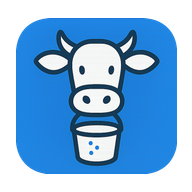
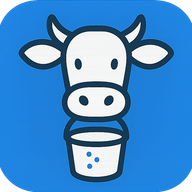
feat: finalize frontend branding and PWA experience

diff --git a/public/service-worker.js b/public/service-worker.js
@@ -1,1 +1,1 @@
-if(!self.define){let e,a={};const s=(s,n)=>(s=new URL(s+".js",n).href,a[s]||new Promise(a=>{if("document"in self){const e=document.createElement("script");e.src=s,e.onload=a,document.head.appendChild(e)}else e=s,importScripts(s),a()}).then(()=>{let e=a[s];if(!e)throw new Error(`Module ${s} didn’t register its module`);return e}));self.define=(n,c)=>{const i=e||("document"in self?document.currentScript.src:"")||location.href;if(a[i])return;let t={};const r=e=>s(e,i),o={module:{uri:i},exports:t,require:r};a[i]=Promise.all(n.map(e=>o[e]||r(e))).then(e=>(c(...e),t))}}define(["./workbox-f1770938"],function(e){"use strict";importScripts(),self.skipWaiting(),e.clientsClaim(),e.precacheAndRoute([{url:"/_next/static/chunks/138-eb2166786b526875.js",revision:"eb2166786b526875"},{url:"/_next/static/chunks/139.7a5a8e93a21948c1.js",revision:"7a5a8e93a21948c1"},{url:"/_next/static/chunks/239-8d9d1030c8d47c9b.js",revision:"8d9d1030c8d47c9b"},{url:"/_next/static/chunks/294-858a763fbb704c99.js",revision:"858a763fbb704c99"},{url:"/_next/static/chunks/3d47b92a-d16d83566cf53d49.js",revision:"d16d83566cf53d49"},{url:"/_next/static/chunks/4bd1b696-c023c6e3521b1417.js",revision:"c023c6e3521b1417"},{url:"/_next/static/chunks/59650de3-10d2dc9dcd236bb1.js",revision:"10d2dc9dcd236bb1"},{url:"/_next/static/chunks/619-9168df9c2a29b74b.js",revision:"9168df9c2a29b74b"},{url:"/_next/static/chunks/646.f342b7cffc01feb0.js",revision:"f342b7cffc01feb0"},{url:"/_next/static/chunks/696-7e8e795e422c1df4.js",revision:"7e8e795e422c1df4"},{url:"/_next/static/chunks/811-e16258beec0a4d41.js",revision:"e16258beec0a4d41"},{url:"/_next/static/chunks/8e1d74a4-118bc74135fd6f1b.js",revision:"118bc74135fd6f1b"},{url:"/_next/static/chunks/app/(app)/atividades/page-7c6df042cb11a681.js",revision:"7c6df042cb11a681"},{url:"/_next/static/chunks/app/(app)/atualiza_animal/page-51d59583a4ff9e4f.js",revision:"51d59583a4ff9e4f"},{url:"/_next/static/chunks/app/(app)/cadastro_animais/page-0a492b0f09e1e3ef.js",revision:"0a492b0f09e1e3ef"},{url:"/_next/static/chunks/app/(app)/cadastro_fazenda/page-dc798967cba1c7c0.js",revision:"dc798967cba1c7c0"},{url:"/_next/static/chunks/app/(app)/cadastro_produtor/page-02088f6bec0c1e68.js",revision:"02088f6bec0c1e68"},{url:"/_next/static/chunks/app/(app)/controle_final/page-d55492b0d030938a.js",revision:"d55492b0d030938a"},{url:"/_next/static/chunks/app/(app)/controle_individual/page-ba80688c565f8883.js",revision:"ba80688c565f8883"},{url:"/_next/static/chunks/app/(app)/controle_leiteiro/page-10b11eb786d0686a.js",revision:"10b11eb786d0686a"},{url:"/_next/static/chunks/app/(app)/fazenda/page-e3533c5f2e3f02b3.js",revision:"e3533c5f2e3f02b3"},{url:"/_next/static/chunks/app/(app)/layout-4bb90c50b5c09b1b.js",revision:"4bb90c50b5c09b1b"},{url:"/_next/static/chunks/app/(app)/login/page-7d3569def2d7dda6.js",revision:"7d3569def2d7dda6"},{url:"/_next/static/chunks/app/(app)/novo_animal/page-77b1603a51143d22.js",revision:"77b1603a51143d22"},{url:"/_next/static/chunks/app/(app)/novo_controle_leiteiro/page-21d7b35e268a3209.js",revision:"21d7b35e268a3209"},{url:"/_next/static/chunks/app/(app)/relatorio_final/page-e1c69af6d176a37d.js",revision:"e1c69af6d176a37d"},{url:"/_next/static/chunks/app/(app)/relatorios/page-b04d49ea61dc4b03.js",revision:"b04d49ea61dc4b03"},{url:"/_next/static/chunks/app/_not-found/page-b241d7f727a88912.js",revision:"b241d7f727a88912"},{url:"/_next/static/chunks/app/layout-e7879fbeeb60e167.js",revision:"e7879fbeeb60e167"},{url:"/_next/static/chunks/app/page-4ac6c3fe62f47d58.js",revision:"4ac6c3fe62f47d58"},{url:"/_next/static/chunks/app/sitemap.xml/route-21707c9dc87a0765.js",revision:"21707c9dc87a0765"},{url:"/_next/static/chunks/framework-a6e0b7e30f98059a.js",revision:"a6e0b7e30f98059a"},{url:"/_next/static/chunks/main-app-70a831d53cf2ed7f.js",revision:"70a831d53cf2ed7f"},{url:"/_next/static/chunks/main-bb453e26edb745cd.js",revision:"bb453e26edb745cd"},{url:"/_next/static/chunks/pages/_app-82835f42865034fa.js",revision:"82835f42865034fa"},{url:"/_next/static/chunks/pages/_error-013f4188946cdd04.js",revision:"013f4188946cdd04"},{url:"/_next/static/chunks/polyfills-42372ed130431b0a.js",revision:"846118c33b2c0e922d7b3a7676f81f6f"},{url:"/_next/static/chunks/webpack-4772d34723bd25e0.js",revision:"4772d34723bd25e0"},{url:"/_next/static/css/9a8a398b10b42679.css",revision:"9a8a398b10b42679"},{url:"/_next/static/l-hEb5JMLCRj_DRUjCOV-/_buildManifest.js",revision:"216f202603db5a2267315b5e948f81df"},{url:"/_next/static/l-hEb5JMLCRj_DRUjCOV-/_ssgManifest.js",revision:"b6652df95db52feb4daf4eca35380933"},{url:"/fotos/tela_animal.jpg",revision:"c59f5e6694c7c75367bacd87c1dcd41a"},{url:"/fotos/tela_atividades.jpg",revision:"6d1c65938e312f244f5460d8875902bb"},{url:"/fotos/tela_controle.jpg",revision:"a4887dc2ce86b52e8e6e63e1df403784"},{url:"/fotos/tela_fazenda.jpg",revision:"b52c1354e712b286f78bc0a2fc86f061"},{url:"/fotos/tela_relatorio.jpg",revision:"bd059b1d8ff5ed3097b07efc48d82fd1"},{url:"/icon-192x192.png",revision:"212c5a6c308d63f62e319d39c03a0351"},{url:"/icon-512x512.png",revision:"c83ef9a0f7f1e072fb1f9ff6b4965e2a"},{url:"/icon_CL.png",revision:"1ad220b8e6b581b98b5806a0d8c1f058"},{url:"/logo_H_CL-removebg.png",revision:"529bcb8b7fe4edd0c23a121f18296f9c"},{url:"/logo_H_CL.png",revision:"53fd3f07d022e93ec3a999fdcc237d9d"},{url:"/logo_V_CL-removebg.png",revision:"cf425462a16b403f6ff1bef7c99cdb6c"},{url:"/logo_V_CL.png",revision:"39e2848030e246fc504357aafe01a5cd"},{url:"/logo_horiz_tepeyac.png",revision:"abd1b916b166e4f0681d73ce79cb0f8d"},{url:"/logo_vert_tepeyac.png",revision:"d7048eb39073ab2f0f5cb95f024d9794"},{url:"/manifest.json",revision:"205671fe0cc45d451558c74c37a6c45e"},{url:"/perfil_out23.png",revision:"ee138fe6c869f9793b11ceec022e3bfd"},{url:"/tepeyac-icon.png",revision:"eae8bc38be33795049064afda5a1c85c"}],{ignoreURLParametersMatching:[/^utm_/,/^fbclid$/]}),e.cleanupOutdatedCaches(),e.registerRoute("/",new e.NetworkFirst({cacheName:"start-url",plugins:[{cacheWillUpdate:async({response:e})=>e&&"opaqueredirect"===e.type?new Response(e.body,{status:200,statusText:"OK",headers:e.headers}):e}]}),"GET"),e.registerRoute(/^https:\/\/fonts\.(?:gstatic)\.com\/.*/i,new e.CacheFirst({cacheName:"google-fonts-webfonts",plugins:[new e.ExpirationPlugin({maxEntries:4,maxAgeSeconds:31536e3})]}),"GET"),e.registerRoute(/^https:\/\/fonts\.(?:googleapis)\.com\/.*/i,new e.StaleWhileRevalidate({cacheName:"google-fonts-stylesheets",plugins:[new e.ExpirationPlugin({maxEntries:4,maxAgeSeconds:604800})]}),"GET"),e.registerRoute(/\.(?:eot|otf|ttc|ttf|woff|woff2|font.css)$/i,new e.StaleWhileRevalidate({cacheName:"static-font-assets",plugins:[new e.ExpirationPlugin({maxEntries:4,maxAgeSeconds:604800})]}),"GET"),e.registerRoute(/\.(?:jpg|jpeg|gif|png|svg|ico|webp)$/i,new e.StaleWhileRevalidate({cacheName:"static-image-assets",plugins:[new e.ExpirationPlugin({maxEntries:64,maxAgeSeconds:2592e3})]}),"GET"),e.registerRoute(/\/_next\/static.+\.js$/i,new e.CacheFirst({cacheName:"next-static-js-assets",plugins:[new e.ExpirationPlugin({maxEntries:64,maxAgeSeconds:86400})]}),"GET"),e.registerRoute(/\/_next\/image\?url=.+$/i,new e.StaleWhileRevalidate({cacheName:"next-image",plugins:[new e.ExpirationPlugin({maxEntries:64,maxAgeSeconds:86400})]}),"GET"),e.registerRoute(/\.(?:mp3|wav|ogg)$/i,new e.CacheFirst({cacheName:"static-audio-assets",plugins:[new e.RangeRequestsPlugin,new e.ExpirationPlugin({maxEntries:32,maxAgeSeconds:86400})]}),"GET"),e.registerRoute(/\.(?:mp4|webm)$/i,new e.CacheFirst({cacheName:"static-video-assets",plugins:[new e.RangeRequestsPlugin,new e.ExpirationPlugin({maxEntries:32,maxAgeSeconds:86400})]}),"GET"),e.registerRoute(/\.(?:js)$/i,new e.StaleWhileRevalidate({cacheName:"static-js-assets",plugins:[new e.ExpirationPlugin({maxEntries:48,maxAgeSeconds:86400})]}),"GET"),e.registerRoute(/\.(?:css|less)$/i,new e.StaleWhileRevalidate({cacheName:"static-style-assets",plugins:[new e.ExpirationPlugin({maxEntries:32,maxAgeSeconds:86400})]}),"GET"),e.registerRoute(/\/_next\/data\/.+\/.+\.json$/i,new e.StaleWhileRevalidate({cacheName:"next-data",plugins:[new e.ExpirationPlugin({maxEntries:32,maxAgeSeconds:86400})]}),"GET"),e.registerRoute(/\.(?:json|xml|csv)$/i,new e.NetworkFirst({cacheName:"static-data-assets",plugins:[new e.ExpirationPlugin({maxEntries:32,maxAgeSeconds:86400})]}),"GET"),e.registerRoute(({sameOrigin:e,url:{pathname:a}})=>!(!e||a.startsWith("/api/auth/callback")||!a.startsWith("/api/")),new e.NetworkFirst({cacheName:"apis",networkTimeoutSeconds:10,plugins:[new e.ExpirationPlugin({maxEntries:16,maxAgeSeconds:86400})]}),"GET"),e.registerRoute(({request:e,url:{pathname:a},sameOrigin:s})=>"1"===e.headers.get("RSC")&&"1"===e.headers.get("Next-Router-Prefetch")&&s&&!a.startsWith("/api/"),new e.NetworkFirst({cacheName:"pages-rsc-prefetch",plugins:[new e.ExpirationPlugin({maxEntries:32,maxAgeSeconds:86400})]}),"GET"),e.registerRoute(({request:e,url:{pathname:a},sameOrigin:s})=>"1"===e.headers.get("RSC")&&s&&!a.startsWith("/api/"),new e.NetworkFirst({cacheName:"pages-rsc",plugins:[new e.ExpirationPlugin({maxEntries:32,maxAgeSeconds:86400})]}),"GET"),e.registerRoute(({url:{pathname:e},sameOrigin:a})=>a&&!e.startsWith("/api/"),new e.NetworkFirst({cacheName:"pages",plugins:[new e.ExpirationPlugin({maxEntries:32,maxAgeSeconds:86400})]}),"GET"),e.registerRoute(({sameOrigin:e})=>!e,new e.NetworkFirst({cacheName:"cross-origin",networkTimeoutSeconds:10,plugins:[new e.ExpirationPlugin({maxEntries:32,maxAgeSeconds:3600})]}),"GET")});
+if(!self.define){let e,a={};const s=(s,n)=>(s=new URL(s+".js",n).href,a[s]||new Promise(a=>{if("document"in self){const e=document.createElement("script");e.src=s,e.onload=a,document.head.appendChild(e)}else e=s,importScripts(s),a()}).then(()=>{let e=a[s];if(!e)throw new Error(`Module ${s} didn’t register its module`);return e}));self.define=(n,c)=>{const i=e||("document"in self?document.currentScript.src:"")||location.href;if(a[i])return;let t={};const r=e=>s(e,i),o={module:{uri:i},exports:t,require:r};a[i]=Promise.all(n.map(e=>o[e]||r(e))).then(e=>(c(...e),t))}}define(["./workbox-f1770938"],function(e){"use strict";importScripts(),self.skipWaiting(),e.clientsClaim(),e.precacheAndRoute([{url:"/_next/static/bFbqk3REoj5UCVW-kuKBh/_buildManifest.js",revision:"216f202603db5a2267315b5e948f81df"},{url:"/_next/static/bFbqk3REoj5UCVW-kuKBh/_ssgManifest.js",revision:"b6652df95db52feb4daf4eca35380933"},{url:"/_next/static/chunks/138-eb2166786b526875.js",revision:"eb2166786b526875"},{url:"/_next/static/chunks/139.7a5a8e93a21948c1.js",revision:"7a5a8e93a21948c1"},{url:"/_next/static/chunks/239-8d9d1030c8d47c9b.js",revision:"8d9d1030c8d47c9b"},{url:"/_next/static/chunks/294-858a763fbb704c99.js",revision:"858a763fbb704c99"},{url:"/_next/static/chunks/3d47b92a-d16d83566cf53d49.js",revision:"d16d83566cf53d49"},{url:"/_next/static/chunks/4bd1b696-c023c6e3521b1417.js",revision:"c023c6e3521b1417"},{url:"/_next/static/chunks/59650de3-10d2dc9dcd236bb1.js",revision:"10d2dc9dcd236bb1"},{url:"/_next/static/chunks/619-9168df9c2a29b74b.js",revision:"9168df9c2a29b74b"},{url:"/_next/static/chunks/646.f342b7cffc01feb0.js",revision:"f342b7cffc01feb0"},{url:"/_next/static/chunks/696-7e8e795e422c1df4.js",revision:"7e8e795e422c1df4"},{url:"/_next/static/chunks/811-e16258beec0a4d41.js",revision:"e16258beec0a4d41"},{url:"/_next/static/chunks/8e1d74a4-118bc74135fd6f1b.js",revision:"118bc74135fd6f1b"},{url:"/_next/static/chunks/app/(app)/atividades/page-7c6df042cb11a681.js",revision:"7c6df042cb11a681"},{url:"/_next/static/chunks/app/(app)/atualiza_animal/page-51d59583a4ff9e4f.js",revision:"51d59583a4ff9e4f"},{url:"/_next/static/chunks/app/(app)/cadastro_animais/page-0a492b0f09e1e3ef.js",revision:"0a492b0f09e1e3ef"},{url:"/_next/static/chunks/app/(app)/cadastro_fazenda/page-dc798967cba1c7c0.js",revision:"dc798967cba1c7c0"},{url:"/_next/static/chunks/app/(app)/cadastro_produtor/page-02088f6bec0c1e68.js",revision:"02088f6bec0c1e68"},{url:"/_next/static/chunks/app/(app)/controle_final/page-d55492b0d030938a.js",revision:"d55492b0d030938a"},{url:"/_next/static/chunks/app/(app)/controle_individual/page-ba80688c565f8883.js",revision:"ba80688c565f8883"},{url:"/_next/static/chunks/app/(app)/controle_leiteiro/page-10b11eb786d0686a.js",revision:"10b11eb786d0686a"},{url:"/_next/static/chunks/app/(app)/fazenda/page-e3533c5f2e3f02b3.js",revision:"e3533c5f2e3f02b3"},{url:"/_next/static/chunks/app/(app)/layout-89dbba67199334cb.js",revision:"89dbba67199334cb"},{url:"/_next/static/chunks/app/(app)/login/page-7d3569def2d7dda6.js",revision:"7d3569def2d7dda6"},{url:"/_next/static/chunks/app/(app)/novo_animal/page-77b1603a51143d22.js",revision:"77b1603a51143d22"},{url:"/_next/static/chunks/app/(app)/novo_controle_leiteiro/page-21d7b35e268a3209.js",revision:"21d7b35e268a3209"},{url:"/_next/static/chunks/app/(app)/relatorio_final/page-e1c69af6d176a37d.js",revision:"e1c69af6d176a37d"},{url:"/_next/static/chunks/app/(app)/relatorios/page-b04d49ea61dc4b03.js",revision:"b04d49ea61dc4b03"},{url:"/_next/static/chunks/app/_not-found/page-b241d7f727a88912.js",revision:"b241d7f727a88912"},{url:"/_next/static/chunks/app/layout-e7879fbeeb60e167.js",revision:"e7879fbeeb60e167"},{url:"/_next/static/chunks/app/page-5c668c56fc75e221.js",revision:"5c668c56fc75e221"},{url:"/_next/static/chunks/app/sitemap.xml/route-21707c9dc87a0765.js",revision:"21707c9dc87a0765"},{url:"/_next/static/chunks/framework-a6e0b7e30f98059a.js",revision:"a6e0b7e30f98059a"},{url:"/_next/static/chunks/main-app-70a831d53cf2ed7f.js",revision:"70a831d53cf2ed7f"},{url:"/_next/static/chunks/main-bb453e26edb745cd.js",revision:"bb453e26edb745cd"},{url:"/_next/static/chunks/pages/_app-82835f42865034fa.js",revision:"82835f42865034fa"},{url:"/_next/static/chunks/pages/_error-013f4188946cdd04.js",revision:"013f4188946cdd04"},{url:"/_next/static/chunks/polyfills-42372ed130431b0a.js",revision:"846118c33b2c0e922d7b3a7676f81f6f"},{url:"/_next/static/chunks/webpack-4772d34723bd25e0.js",revision:"4772d34723bd25e0"},{url:"/_next/static/css/a042bb230c5b426d.css",revision:"a042bb230c5b426d"},{url:"/fotos/tela_animal.jpg",revision:"c59f5e6694c7c75367bacd87c1dcd41a"},{url:"/fotos/tela_atividades.jpg",revision:"6d1c65938e312f244f5460d8875902bb"},{url:"/fotos/tela_controle.jpg",revision:"a4887dc2ce86b52e8e6e63e1df403784"},{url:"/fotos/tela_fazenda.jpg",revision:"b52c1354e712b286f78bc0a2fc86f061"},{url:"/fotos/tela_relatorio.jpg",revision:"bd059b1d8ff5ed3097b07efc48d82fd1"},{url:"/icon-192x192.png",revision:"f0367da3c238be14d637cfd338ff6a49"},{url:"/icon-512x512.png",revision:"a77506d38c182cb43fa0bd0c5b5cb165"},{url:"/icon_CL.png",revision:"1ad220b8e6b581b98b5806a0d8c1f058"},{url:"/logo_H_CL-removebg.png",revision:"529bcb8b7fe4edd0c23a121f18296f9c"},{url:"/logo_H_CL.png",revision:"53fd3f07d022e93ec3a999fdcc237d9d"},{url:"/logo_V_CL-removebg.png",revision:"cf425462a16b403f6ff1bef7c99cdb6c"},{url:"/logo_V_CL.png",revision:"39e2848030e246fc504357aafe01a5cd"},{url:"/logo_horiz_tepeyac.png",revision:"abd1b916b166e4f0681d73ce79cb0f8d"},{url:"/logo_vert_tepeyac.png",revision:"d7048eb39073ab2f0f5cb95f024d9794"},{url:"/manifest.json",revision:"baf452d4a74c1e8f2f0ba513e3e9b314"},{url:"/perfil_out23.png",revision:"ee138fe6c869f9793b11ceec022e3bfd"},{url:"/tepeyac-icon.png",revision:"eae8bc38be33795049064afda5a1c85c"}],{ignoreURLParametersMatching:[/^utm_/,/^fbclid$/]}),e.cleanupOutdatedCaches(),e.registerRoute("/",new e.NetworkFirst({cacheName:"start-url",plugins:[{cacheWillUpdate:async({response:e})=>e&&"opaqueredirect"===e.type?new Response(e.body,{status:200,statusText:"OK",headers:e.headers}):e}]}),"GET"),e.registerRoute(/^https:\/\/fonts\.(?:gstatic)\.com\/.*/i,new e.CacheFirst({cacheName:"google-fonts-webfonts",plugins:[new e.ExpirationPlugin({maxEntries:4,maxAgeSeconds:31536e3})]}),"GET"),e.registerRoute(/^https:\/\/fonts\.(?:googleapis)\.com\/.*/i,new e.StaleWhileRevalidate({cacheName:"google-fonts-stylesheets",plugins:[new e.ExpirationPlugin({maxEntries:4,maxAgeSeconds:604800})]}),"GET"),e.registerRoute(/\.(?:eot|otf|ttc|ttf|woff|woff2|font.css)$/i,new e.StaleWhileRevalidate({cacheName:"static-font-assets",plugins:[new e.ExpirationPlugin({maxEntries:4,maxAgeSeconds:604800})]}),"GET"),e.registerRoute(/\.(?:jpg|jpeg|gif|png|svg|ico|webp)$/i,new e.StaleWhileRevalidate({cacheName:"static-image-assets",plugins:[new e.ExpirationPlugin({maxEntries:64,maxAgeSeconds:2592e3})]}),"GET"),e.registerRoute(/\/_next\/static.+\.js$/i,new e.CacheFirst({cacheName:"next-static-js-assets",plugins:[new e.ExpirationPlugin({maxEntries:64,maxAgeSeconds:86400})]}),"GET"),e.registerRoute(/\/_next\/image\?url=.+$/i,new e.StaleWhileRevalidate({cacheName:"next-image",plugins:[new e.ExpirationPlugin({maxEntries:64,maxAgeSeconds:86400})]}),"GET"),e.registerRoute(/\.(?:mp3|wav|ogg)$/i,new e.CacheFirst({cacheName:"static-audio-assets",plugins:[new e.RangeRequestsPlugin,new e.ExpirationPlugin({maxEntries:32,maxAgeSeconds:86400})]}),"GET"),e.registerRoute(/\.(?:mp4|webm)$/i,new e.CacheFirst({cacheName:"static-video-assets",plugins:[new e.RangeRequestsPlugin,new e.ExpirationPlugin({maxEntries:32,maxAgeSeconds:86400})]}),"GET"),e.registerRoute(/\.(?:js)$/i,new e.StaleWhileRevalidate({cacheName:"static-js-assets",plugins:[new e.ExpirationPlugin({maxEntries:48,maxAgeSeconds:86400})]}),"GET"),e.registerRoute(/\.(?:css|less)$/i,new e.StaleWhileRevalidate({cacheName:"static-style-assets",plugins:[new e.ExpirationPlugin({maxEntries:32,maxAgeSeconds:86400})]}),"GET"),e.registerRoute(/\/_next\/data\/.+\/.+\.json$/i,new e.StaleWhileRevalidate({cacheName:"next-data",plugins:[new e.ExpirationPlugin({maxEntries:32,maxAgeSeconds:86400})]}),"GET"),e.registerRoute(/\.(?:json|xml|csv)$/i,new e.NetworkFirst({cacheName:"static-data-assets",plugins:[new e.ExpirationPlugin({maxEntries:32,maxAgeSeconds:86400})]}),"GET"),e.registerRoute(({sameOrigin:e,url:{pathname:a}})=>!(!e||a.startsWith("/api/auth/callback")||!a.startsWith("/api/")),new e.NetworkFirst({cacheName:"apis",networkTimeoutSeconds:10,plugins:[new e.ExpirationPlugin({maxEntries:16,maxAgeSeconds:86400})]}),"GET"),e.registerRoute(({request:e,url:{pathname:a},sameOrigin:s})=>"1"===e.headers.get("RSC")&&"1"===e.headers.get("Next-Router-Prefetch")&&s&&!a.startsWith("/api/"),new e.NetworkFirst({cacheName:"pages-rsc-prefetch",plugins:[new e.ExpirationPlugin({maxEntries:32,maxAgeSeconds:86400})]}),"GET"),e.registerRoute(({request:e,url:{pathname:a},sameOrigin:s})=>"1"===e.headers.get("RSC")&&s&&!a.startsWith("/api/"),new e.NetworkFirst({cacheName:"pages-rsc",plugins:[new e.ExpirationPlugin({maxEntries:32,maxAgeSeconds:86400})]}),"GET"),e.registerRoute(({url:{pathname:e},sameOrigin:a})=>a&&!e.startsWith("/api/"),new e.NetworkFirst({cacheName:"pages",plugins:[new e.ExpirationPlugin({maxEntries:32,maxAgeSeconds:86400})]}),"GET"),e.registerRoute(({sameOrigin:e})=>!e,new e.NetworkFirst({cacheName:"cross-origin",networkTimeoutSeconds:10,plugins:[new e.ExpirationPlugin({maxEntries:32,maxAgeSeconds:3600})]}),"GET")});

diff --git a/src/app/(app)/components/install-pwa-prompt.tsx b/src/app/(app)/components/install-pwa-prompt.tsx
@@ -1,0 +1,150 @@
+"use client";
+
+import { useEffect, useState } from "react";
+import { usePathname } from "next/navigation";
+
+const DISMISSAL_KEY = "cl_install_prompt_dismissed_v1";
+
+type BeforeInstallPromptEvent = Event & {
+  prompt: () => Promise<void>;
+  userChoice: Promise<{ outcome: "accepted" | "dismissed" }>;
+};
+
+const isStandaloneMode = () =>
+  window.matchMedia("(display-mode: standalone)").matches ||
+  (navigator as Navigator & { standalone?: boolean }).standalone === true;
+
+const isIosSafari = () => {
+  const userAgent = navigator.userAgent;
+  const isIos =
+    /iPad|iPhone|iPod/.test(userAgent) ||
+    (navigator.platform === "MacIntel" && navigator.maxTouchPoints > 1);
+
+  return isIos && /Safari/.test(userAgent) && !/CriOS|FxiOS|EdgiOS|OPiOS/.test(userAgent);
+};
+
+const wasDismissed = () => {
+  try {
+    return localStorage.getItem(DISMISSAL_KEY) === "true";
+  } catch {
+    return false;
+  }
+};
+
+const InstallPwaPrompt = () => {
+  const pathname = usePathname();
+  const [installEvent, setInstallEvent] = useState<BeforeInstallPromptEvent | null>(null);
+  const [showIosInstructions, setShowIosInstructions] = useState(false);
+  const [isStandalone, setIsStandalone] = useState(true);
+  const [isDismissed, setIsDismissed] = useState(true);
+  const [isPrompting, setIsPrompting] = useState(false);
+
+  useEffect(() => {
+    const standalone = isStandaloneMode();
+    const dismissed = wasDismissed();
+    setIsStandalone(standalone);
+    setIsDismissed(dismissed);
+    setShowIosInstructions(!standalone && !dismissed && isIosSafari());
+
+    const handleBeforeInstallPrompt = (event: Event) => {
+      event.preventDefault();
+      if (!isStandaloneMode() && !wasDismissed()) {
+        setInstallEvent(event as BeforeInstallPromptEvent);
+      }
+    };
+
+    const handleAppInstalled = () => {
+      dismiss();
+      setIsStandalone(true);
+    };
+
+    window.addEventListener("beforeinstallprompt", handleBeforeInstallPrompt);
+    window.addEventListener("appinstalled", handleAppInstalled);
+
+    return () => {
+      window.removeEventListener("beforeinstallprompt", handleBeforeInstallPrompt);
+      window.removeEventListener("appinstalled", handleAppInstalled);
+    };
+  }, []);
+
+  const dismiss = () => {
+    try {
+      localStorage.setItem(DISMISSAL_KEY, "true");
+    } catch {
+      // O convite ainda é ocultado nesta sessão se o armazenamento estiver indisponível.
+    }
+    setIsDismissed(true);
+    setInstallEvent(null);
+    setShowIosInstructions(false);
+  };
+
+  const install = async () => {
+    if (!installEvent || isPrompting) return;
+
+    setIsPrompting(true);
+    try {
+      await installEvent.prompt();
+      const choice = await installEvent.userChoice;
+      if (choice.outcome === "dismissed") {
+        dismiss();
+      } else {
+        setInstallEvent(null);
+      }
+    } catch {
+      setInstallEvent(null);
+    } finally {
+      setIsPrompting(false);
+    }
+  };
+
+  const isPublicRoute = pathname === "/login" || pathname === "/cadastro_produtor";
+  if (isPublicRoute || isStandalone || isDismissed || (!installEvent && !showIosInstructions)) {
+    return null;
+  }
+
+  return (
+    <div className="mx-auto w-full max-w-6xl px-4 pt-4 sm:px-8">
+      <aside
+        aria-label="Instalação do Controle Leiteiro"
+        className="rounded-lg border border-primary-color/30 bg-light-color p-4 shadow-sm sm:flex sm:items-center sm:justify-between sm:gap-6"
+      >
+        <div>
+          <h2 className="text-lg font-semibold text-dark-color">
+            Tenha o Controle Leiteiro na tela inicial
+          </h2>
+          <p className="mt-1 text-sm text-dark-color">
+            {showIosInstructions
+              ? "Adicione o Controle Leiteiro à tela inicial para acessar mais facilmente."
+              : "Instale neste dispositivo para acessar mais facilmente."}
+          </p>
+          {showIosInstructions && (
+            <p className="mt-2 text-sm text-dark-color">
+              Toque em Compartilhar e depois em “Adicionar à Tela de Início”.
+            </p>
+          )}
+        </div>
+        <div className="mt-4 flex flex-wrap gap-3 sm:mt-0 sm:shrink-0">
+          {!showIosInstructions && (
+            <button
+              type="button"
+              onClick={install}
+              disabled={isPrompting}
+              className="min-h-11 rounded-lg bg-tertiary-color px-4 py-2 font-semibold text-dark-color focus-visible:outline-none focus-visible:ring-2 focus-visible:ring-dark-color focus-visible:ring-offset-2 disabled:cursor-not-allowed disabled:opacity-60"
+            >
+              Instalar Controle Leiteiro
+            </button>
+          )}
+          <button
+            type="button"
+            onClick={dismiss}
+            className="min-h-11 rounded-lg border border-primary-color px-4 py-2 font-medium text-dark-color focus-visible:outline-none focus-visible:ring-2 focus-visible:ring-dark-color focus-visible:ring-offset-2"
+          >
+            Agora não
+          </button>
+        </div>
+      </aside>
+    </div>
+  );
+};
+
+export default InstallPwaPrompt;

diff --git a/src/app/(app)/components/footer.tsx b/src/app/(app)/components/footer.tsx
@@ -19,15 +19,15 @@ import { BiLogoWhatsapp } from "react-icons/bi";
 const Footer = () => {
   return (
     <footer className="bg-primary-color px-4 py-4 text-light-color font-light sm:px-8">
-      <div className="mx-auto flex max-w-6xl flex-col items-center justify-between gap-3 sm:flex-row">
+      <div className="mx-auto flex max-w-6xl flex-row items-center justify-between gap-3">
         <div className="flex items-center gap-3">
           <Image
-            src="/tepeyac-icon.png"
+            src="/logo_horiz_tepeyac.png"
             alt="Logo da Tepeyac Tech"
-            width={40}
-            height={40}
+            width={384}
+            height={95}
+            className="h-10 w-auto"
           />
-          <span className="text-lg sm:text-xl">Tepeyac Tech</span>
         </div>
 
         <div className="flex items-center justify-center gap-2">
@@ -48,7 +48,7 @@ const Footer = () => {
             <BiLogoWhatsapp className="h-6 w-6" />
           </a>
           <a
-            href="https://www.instagram.com/fernandorcosta25"
+            href="https://www.instagram.com/fernandocosta.tepeyac"
             className="p-2 hover:text-tertiary-color transition-colors"
             aria-label="Link para Instagram"
             target="_blank"

diff --git a/src/app/page.tsx b/src/app/page.tsx
@@ -765,13 +765,12 @@ const Footer = () => (
             <span>Desenvolvido pela</span>
             <span className="inline-flex items-center gap-2">
               <Image
-                src="/tepeyac-icon.png"
-                alt=""
-                width={32}
-                height={32}
-                className="h-8 w-8 object-contain"
+                src="/logo_horiz_tepeyac.png"
+                alt="Tepeyac Tech"
+                width={384}
+                height={95}
+                className="h-10 w-auto"
               />
-              <span>Tepeyac Tech.</span>
             </span>
           </p>
 
@@ -794,7 +793,7 @@ const Footer = () => (
                 <BiLogoWhatsapp className="h-6 w-6" />
               </a>
               <a
-                href="https://www.instagram.com/fernandorcosta25"
+                href="https://www.instagram.com/fernandocosta.tepeyac"
                 className="rounded-sm text-secondary-color transition-colors hover:text-tertiary-color focus-visible:outline-none focus-visible:ring-2 focus-visible:ring-tertiary-color focus-visible:ring-offset-2 focus-visible:ring-offset-primary-color"
                 aria-label="Fernando Costa no Instagram"
                 target="_blank"

diff --git a/src/app/(app)/layout.tsx b/src/app/(app)/layout.tsx
@@ -3,6 +3,7 @@ import Header from "./components/header";
 import Footer from "./components/footer";
 import FormText from "./components/texts";
 import AuthGuard from "./components/auth-guard";
+import InstallPwaPrompt from "./components/install-pwa-prompt";
 
 export default function AppLayout({ children }: { children: React.ReactNode }) {
   return (
@@ -16,7 +17,10 @@ export default function AppLayout({ children }: { children: React.ReactNode }) {
         }
       >
         <main className="flex-grow overflow-y-auto">
-          <AuthGuard>{children}</AuthGuard>
+          <AuthGuard>
+            <InstallPwaPrompt />
+            {children}
+          </AuthGuard>
         </main>
       </Suspense>
       <Footer />

diff --git a/README.md b/README.md
@@ -110,7 +110,7 @@ Todo o projeto é desenvolvido em **TypeScript**. Isso garante a tipagem estáti
   <a href="https://www.linkedin.com/in/fernando-r-costa/" target="_blank">
     <img alt="LinkedIn" src="https://img.shields.io/badge/LinkedIn-0077B5?style=for-the-badge&logo=linkedin&logoColor=white">
   </a>
-  <a href="https://www.instagram.com/fernandorcosta25/" target="_blank">
+  <a href="https://www.instagram.com/fernandocosta.tepeyac" target="_blank">
     <img alt="Instagram" src="https://img.shields.io/badge/Instagram-E4405F?style=for-the-badge&logo=instagram&logoColor=white">
   </a>
   <a href="https://www.youtube.com/@controle.leiteiro" target="_blank">
